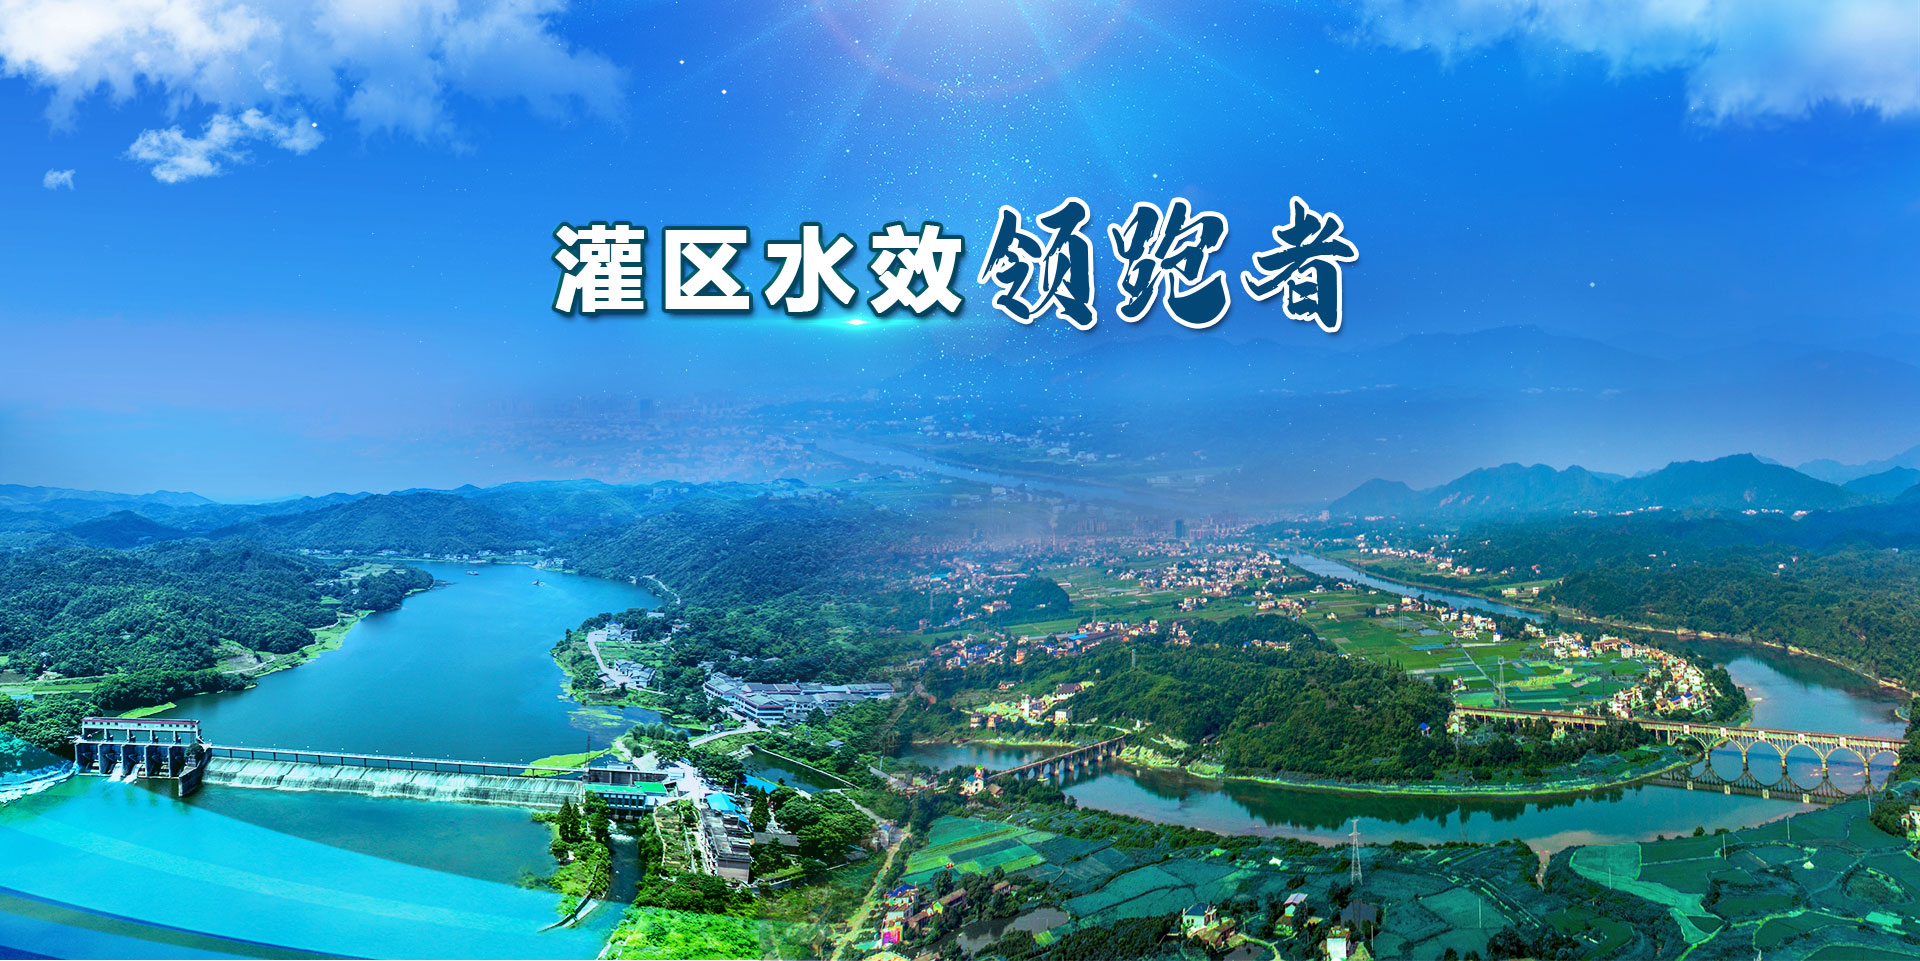
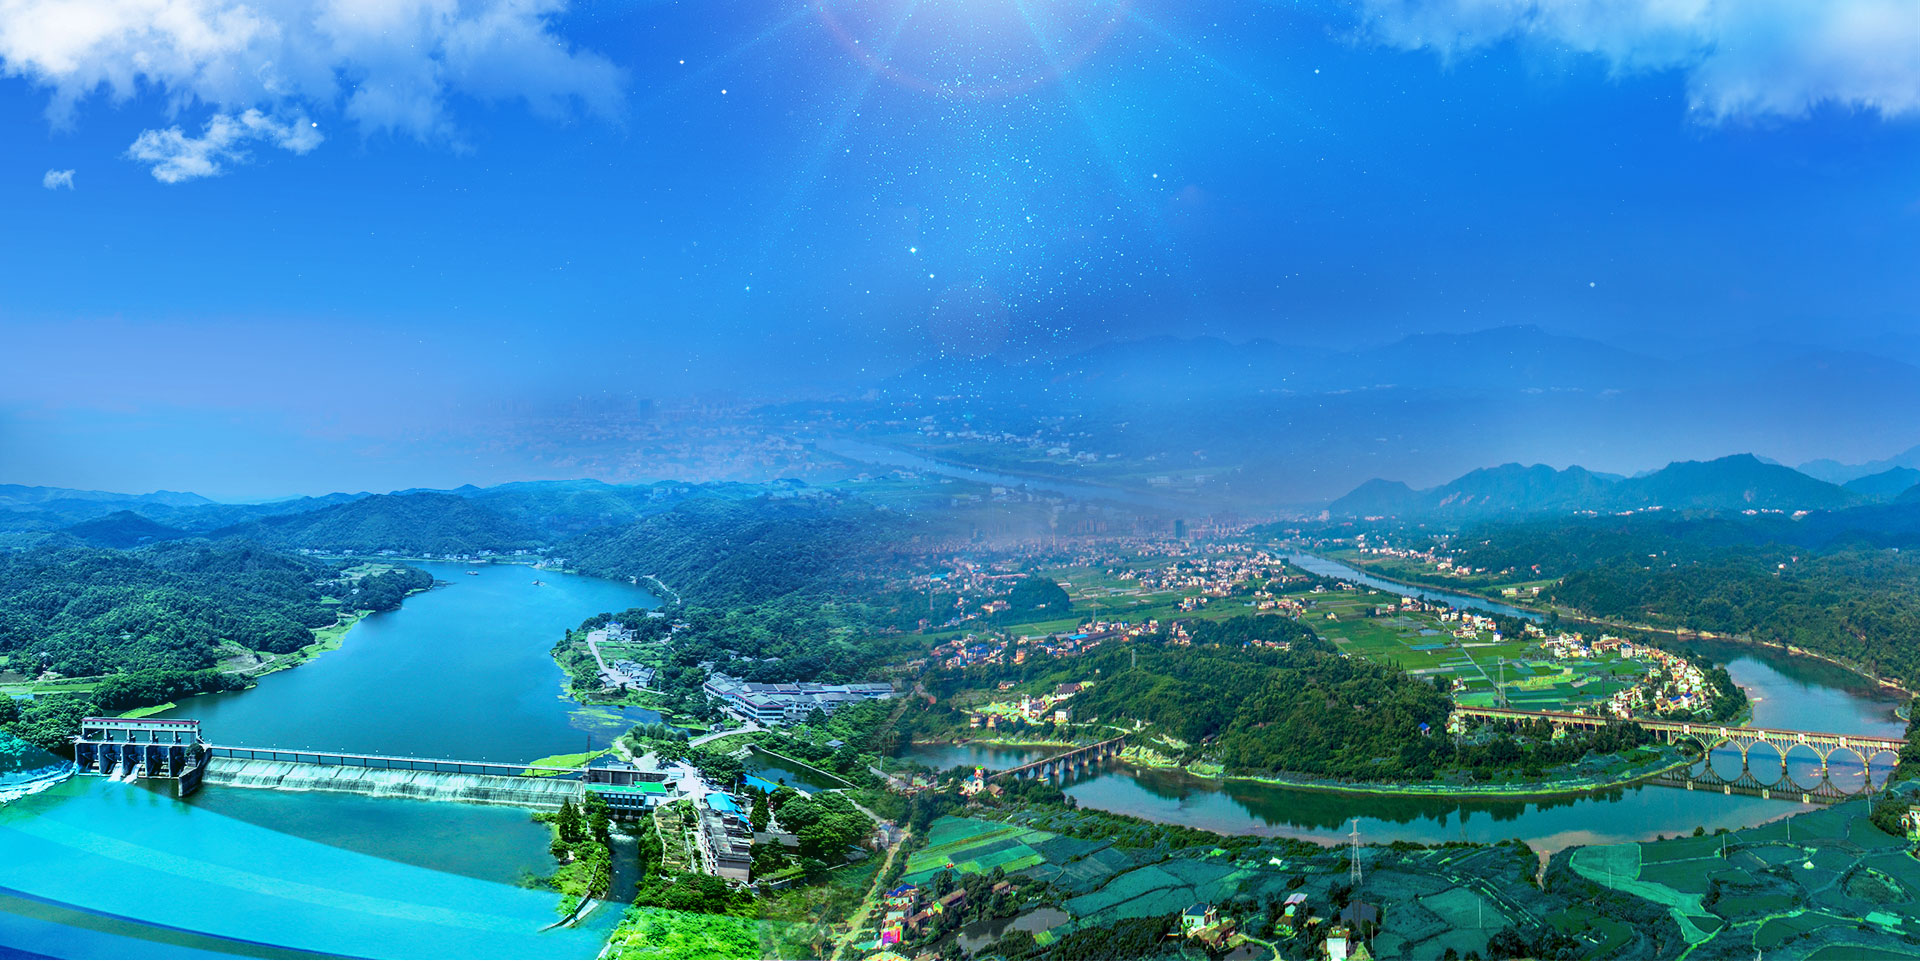
修改

Changed region(s): [[0.2812, 0.1873, 0.7188, 0.3746]]

diff --git a/专题/灌区水效领跑者/灌水区水效领跑者-index.html b/专题/灌区水效领跑者/灌水区水效领跑者-index.html
@@ -3,7 +3,7 @@
 <head>
     <meta charset="UTF-8">
     <meta http-equiv="X-UA-Compatible" content="IE=edge,chrome=1">
-    <meta name="viewport" content="width=device-width, initial-scale=1.0">
+    <meta name="viewport" content="width=1200">
     <title>灌区水效领跑者</title>
     <link rel="stylesheet" href="images/normalize.css">
     <link rel="stylesheet" href="images/slick.css">
@@ -12,6 +12,7 @@
 <body>
     <div class="mainbg">
         <div class="center-block-1200">
+            <div class="word"><img src="images/gqsxlpz-202306-word.png" alt=""></div>
             <section class="clearfix whitebg">
                 <div class="fl">
                     <div class="slick-mod">

diff --git a/专题/灌区水效领跑者/images/gqsxlpz-202306-global.css b/专题/灌区水效领跑者/images/gqsxlpz-202306-global.css
@@ -49,7 +49,8 @@ img {
   background-position: top center;
   background-color: #f7fafe;
   background-repeat: no-repeat;
-  padding-top: 464px;
+  background-attachment: fixed;
+  /* padding-top: 464px; */
 }
 
 /* carousel */
